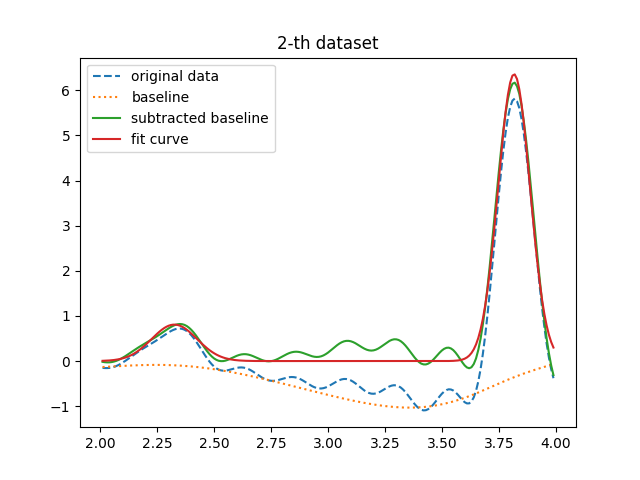
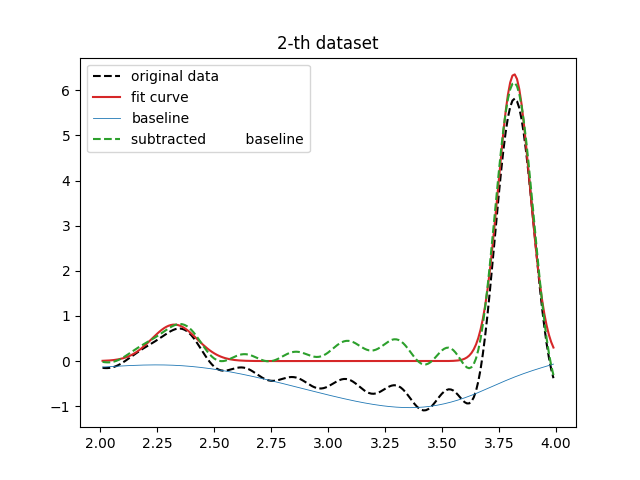
change colors of figures

diff --git a/utils.py b/utils.py
@@ -6,6 +6,7 @@ import codecs
 import os
 
 import numpy as np
+import seaborn as sns
 import matplotlib.pyplot as plt
 
 from pathlib import Path
@@ -107,7 +108,7 @@ def plot_initial_3d(x, ys):
     ax = plt.axes(projection='3d')
     for i in range(len(ys)):
         z = np.ones(len(ys[0]))*10*i  # time = dataset_index * 10 
-        ax.plot3D(x,z,ys[i],c='black')
+        ax.plot3D(x,z,ys[i])
     ax.set_xlabel('q ($nm^{-1}$)')
     ax.set_ylabel('Time (min)')
     ax.set_zlabel('Intensity ($cm^{-1}$)')
@@ -723,7 +724,7 @@ def get_pars(fit_result):
     value = []
     std_err = []
     for name, par in fit_result.params.items():
-        print(f"{name}: value={'%.6f'%float(par.value)} +/- {par.stderr} ")
+        print(f"{name}: value={'%.6f'%float(par.value)}+/-{'%.6f'%par.stderr}")
         value.append(float(par.value))
         std_err.append(check_float(par.stderr))
     return np.array(value), np.array(std_err)
@@ -737,13 +738,15 @@ def fit_curve_with_baseline(x, y, x_range, guess1, guess2, i=0):
 
     baseline = baseline_als(yy, 10000, 0.01)
     baseline_subtracted = yy - baseline
-    best_fit, fit_result = fit_curve_gauss(xx, baseline_subtracted, guess1, guess2)
+    best_fit, fit_result = fit_curve_gauss(xx,baseline_subtracted,guess1,guess2)
 
     plt.title(f"{i}-th dataset")
-    plt.plot(xx, yy, '--', label='original data')
-    plt.plot(xx, baseline, ':', label='baseline')
-    plt.plot(xx, baseline_subtracted, '-', label='subtracted baseline')
-    plt.plot(xx, best_fit, '-', label='fit curve')
+    plt.plot(xx,yy, '--', c='k', label = 'original data')
+    plt.plot(xx, best_fit, '-', c='tab:red', label = 'fit curve')
+    plt.plot(xx, baseline, '-', c='tab:blue', label = 'baseline', linewidth = \
+        0.8)
+    plt.plot(xx, baseline_subtracted, '--', c='tab:green', label = 'subtracted\
+         baseline')
     plt.legend()
     plt.savefig('Resulted_Figures/Dataset_{}.png'.format(i))
     plt.show()
@@ -771,7 +774,7 @@ def summarize_data3D(x, ys, x_range, num, guess1, guess2):
     for i in range(len(ys)):
         print(f"\n{i}th dataset: ")
         # data[0][i] = i*10
-        fit_result = fit_curve_with_baseline(x, ys[i], x_range, guess1, guess2, i=i)
+        fit_result = fit_curve_with_baseline(x,ys[i],x_range,guess1,guess2,i=i)
         pars_value, pars_stderr = get_pars(fit_result)
         for j in range(num):
             data_3d[j][0][i] = i*10
@@ -790,9 +793,9 @@ def plot_fwhm(data_2d, i):
     i: the index of peak, min as 0. Imported to name picture file.
     """
     plt.title("Peak {} - Changes in FXHM".format(i+1))
-    plt.plot(data_2d[0],data_2d[7],'sienna',linewidth=1.0)
+    plt.plot(data_2d[0],data_2d[7],'k',linewidth=1.0)
     plt.errorbar(data_2d[0],data_2d[7],yerr=data_2d[8],fmt='o',\
-        ecolor='k',color='mediumseagreen',elinewidth=1,capsize=1)
+        ecolor='tab:blue',color='tab:orange',elinewidth=1,capsize=1)
     plt.xlabel('Time (min)') 
     plt.ylabel('Full Width at Half Maximum')
     plt.savefig('Resulted_Figures/Peak{}_FXHM.png'.format(i+1))
@@ -807,9 +810,9 @@ def plot_intensity(data_2d, i):
     i: the index of peak, min as 0. Imported to name picture file.
     """
     plt.title("Peak {} - Changes in Intensity".format(i+1))
-    plt.plot(data_2d[0],data_2d[9],'sienna',linewidth=1.0)
+    plt.plot(data_2d[0],data_2d[9],'k',linewidth=1.0)
     plt.errorbar(data_2d[0],data_2d[9],yerr=data_2d[10],fmt='o',\
-        ecolor='k',color='mediumseagreen',elinewidth=1,capsize=1)
+        ecolor='tab:blue',color='tab:orange',elinewidth=1,capsize=1)
     plt.xlabel('Time (min)') 
     plt.ylabel('Intensity')
     plt.savefig('Resulted_Figures/Peak{}_Intensity.png'.format(i+1))

diff --git a/molecule.py b/molecule.py
@@ -49,8 +49,8 @@ def main():
     plot_initial_2d(x, ys)
     ascii_guess1 = [2.4, 0.038, 0.3]
     ascii_guess2 = [3.82, 0.07, 1.13]
-    # data_3d = summarize_data3D(x,ys,[2, 4],2,ascii_guess1,ascii_guess2)
-    # summarize_peaks(data_3d)
+    data_3d = summarize_data3D(x,ys,[2, 4],2,ascii_guess1,ascii_guess2)
+    summarize_peaks(data_3d)
     summarize_comparison(x, ys[8], [2, 4], ascii_guess1, ascii_guess2)
 
 
